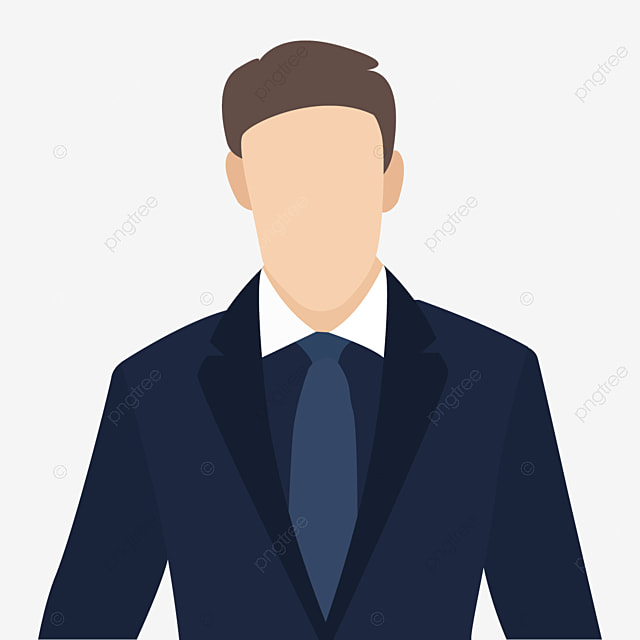
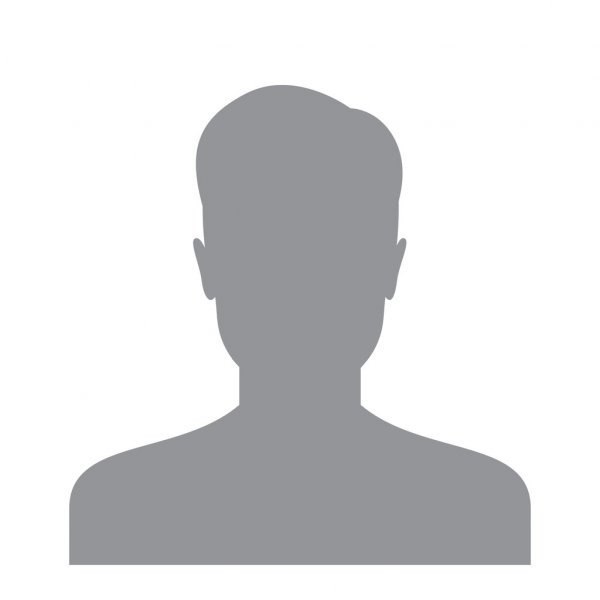
profile pic update

diff --git a/src/pages/Profile/index.jsx b/src/pages/Profile/index.jsx
@@ -13,7 +13,6 @@ const Organizer = () => {
     useEffect(() => {
         instance.post('profile/get-profile', { _id: localStorage.getItem('userId') })
             .then(res => {
-                console.log('get profile', res)
                 setData({
                     _id: res.data.data._id,
                     name: res.data.data.name,
@@ -34,7 +33,6 @@ const Organizer = () => {
 
     const handleImg = (e) => {
         const file = e.target.files[0]
-
         if (file) {
             const formData = new FormData()
             formData.append(
@@ -45,9 +43,11 @@ const Organizer = () => {
             )
             instance.post('s3/upload/profile', formData)
                 .then(res => {
+                    console.log('file', res)
                     setData({ ...data, profile: res.data.data })
                 })
         }
+        e.target.value = ''
     }
 
     const handleSubmit = () => {

diff --git a/src/components/Dashbaord/Projects/ProjectBody/index.jsx b/src/components/Dashbaord/Projects/ProjectBody/index.jsx
@@ -15,11 +15,11 @@ const ProjectBody = ({ category, icon, plusIcon, searchIcon, data }) => {
     const [clickIndex, setClickIndex] = useState(0)
     const [search, setSearch] = useState('')
     const updatedData = search ? data.filter(item => {
-        return Object.keys(item).some(() =>
+        return Object.keys(item).some(() => (
             item?.user?.[["name"]]?.toString()?.toLowerCase().includes(search?.toLowerCase()) ||
             item?.user?.[["role"]]?.toString()?.toLowerCase().includes(search?.toLowerCase()) ||
             item[["town"]]?.toString()?.toLowerCase().includes(search?.toLowerCase()) ||
-            item[["headQuartier"]]?.toString()?.toLowerCase().includes(search?.toLowerCase())
+            item[["headQuartier"]]?.toString()?.toLowerCase().includes(search?.toLowerCase()))
         );
     }) : data;
 

diff --git a/src/assets/styles/partials/components/_addOrganizer.scss b/src/assets/styles/partials/components/_addOrganizer.scss
@@ -108,14 +108,15 @@
 
     &_labelImg
     {
-        width: 120px;
-        height: 120px;
-        overflow: hidden;
-        cursor: pointer;
-        margin-top: 30px;
-        margin-left: 140px;
-        border-radius: 50%;
-        border: 5px solid #cbcbcb;
+    width: 120px;
+    height: 120px;
+    overflow: hidden;
+    cursor: pointer;
+    margin-top: 30px;
+    margin-left: 100px;
+    border-radius: 50%;
+    border: 3px solid #cbcbcb;
+    margin-bottom: 16px;
 
         img
         {
